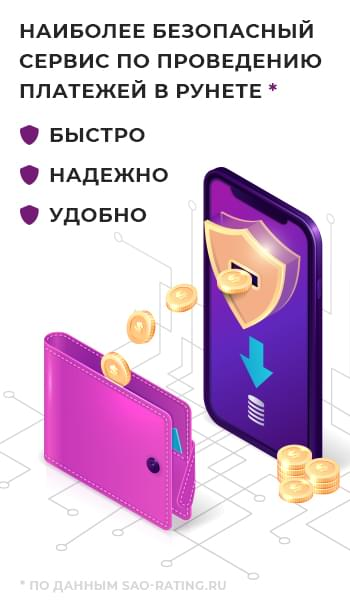
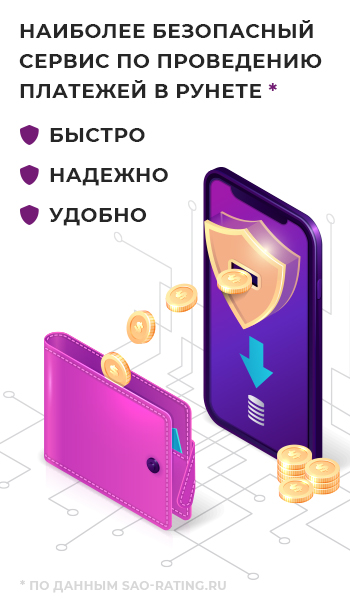
first commit

diff --git a/catalog-item.html b/catalog-item.html
@@ -265,7 +265,7 @@
                         </main>
                         <aside class="catalog-item__sidebar">
                             <a href="" class="catalog-item__banner">
-                                <img src="img/banner.webp" alt="">
+                                <img src="img/banner.jpg" alt="">
                             </a>
                         </aside>
                     </div>

diff --git a/promo.html b/promo.html
@@ -122,7 +122,7 @@
                         </main>
                         <aside class="catalog-item__sidebar">
                             <a href="" class="catalog-item__banner">
-                                <img src="img/banner.webp" alt="">
+                                <img src="img/banner.jpg" alt="">
                             </a>
                         </aside>
                     </div>

diff --git a/tech.html b/tech.html
@@ -110,7 +110,7 @@
                         </main>
                         <aside class="catalog-item__sidebar">
                             <a href="" class="catalog-item__banner">
-                                <img src="img/banner.webp" alt="">
+                                <img src="img/banner.jpg" alt="">
                             </a>
                         </aside>
                     </div>

diff --git a/agree.html b/agree.html
@@ -74,7 +74,7 @@
                         </main>
                         <aside class="catalog-item__sidebar">
                             <a href="" class="catalog-item__banner">
-                                <img src="img/banner.webp" alt="">
+                                <img src="img/banner.jpg" alt="">
                             </a>
                         </aside>
                     </div>
